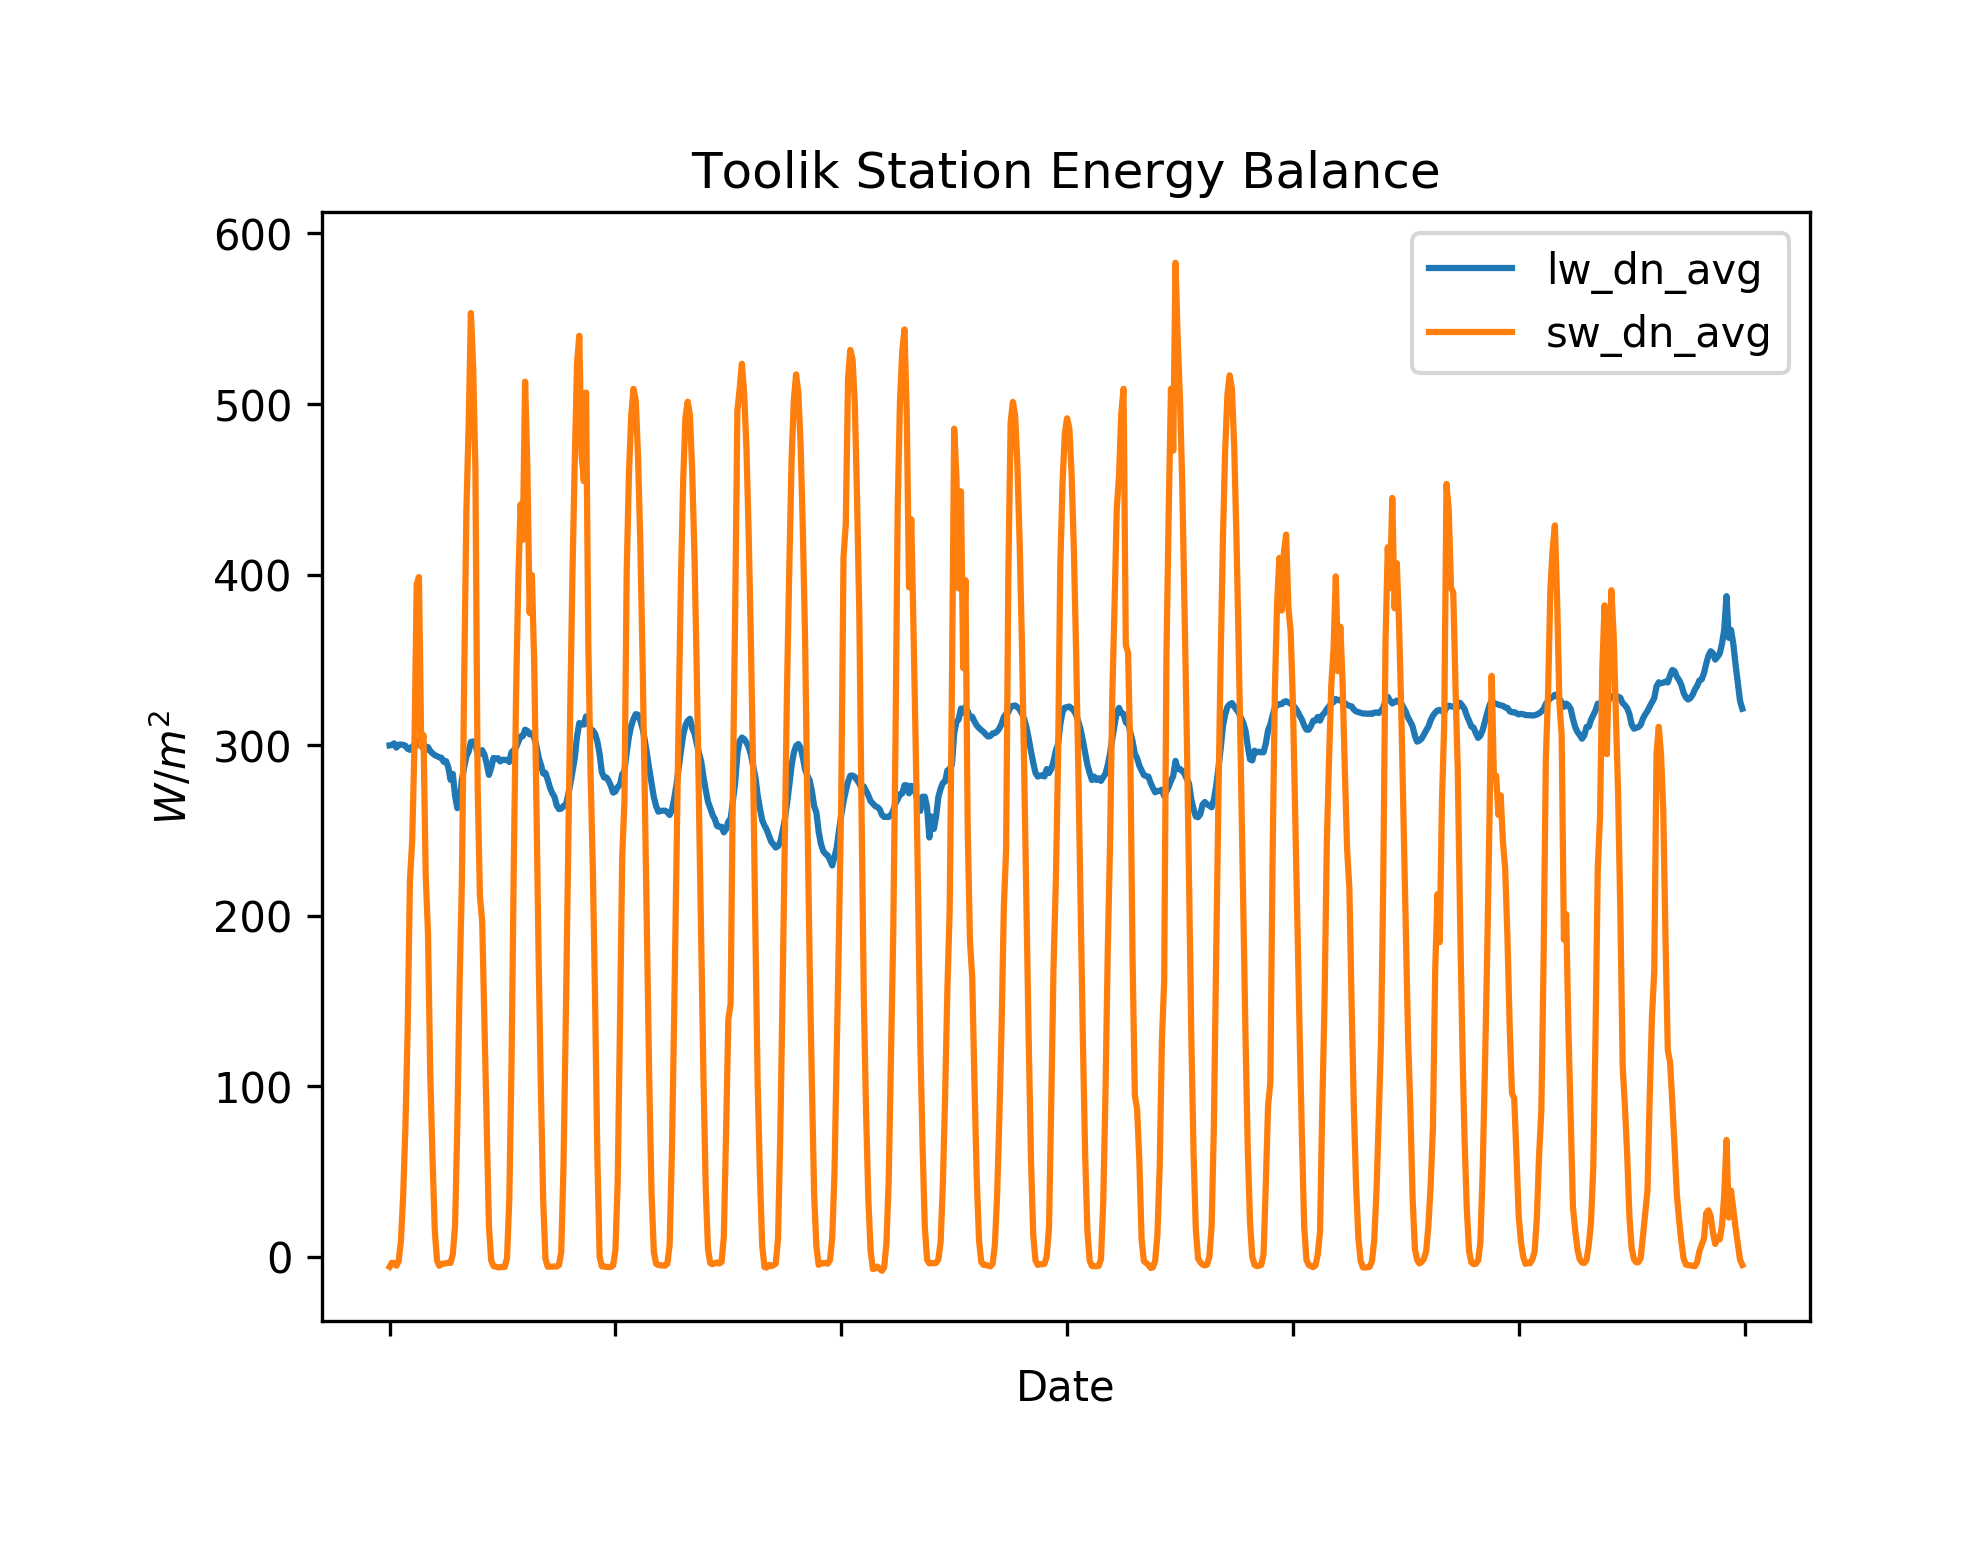
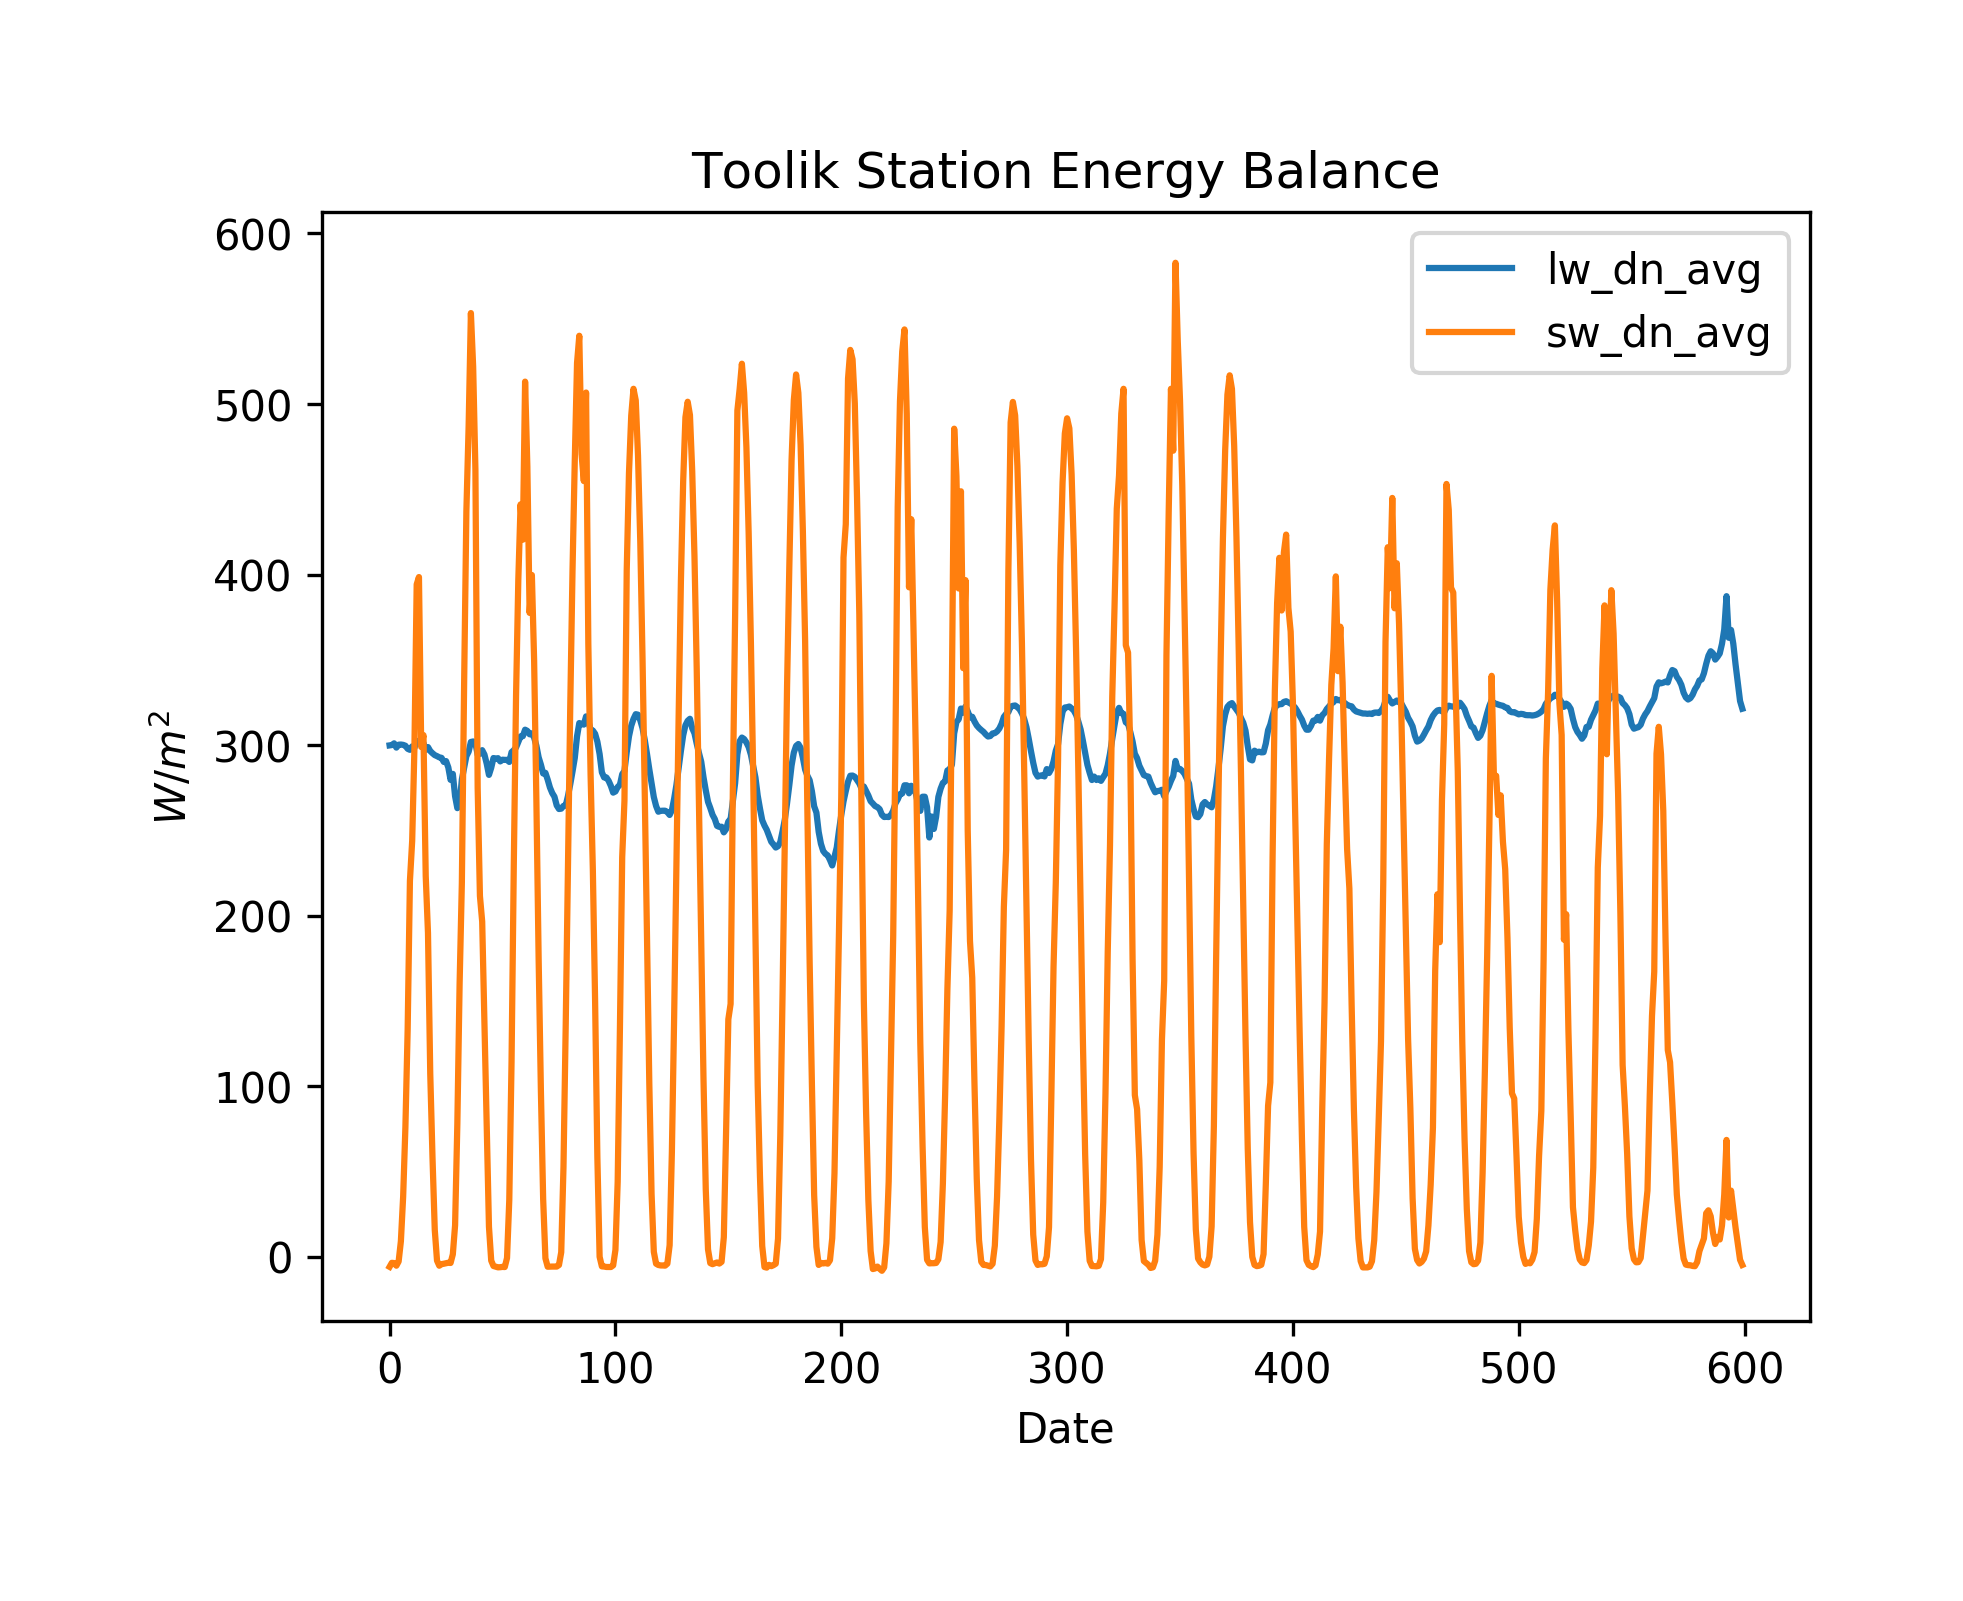
timestamps now on graphs. yay!

diff --git a/converttoolik.py b/converttoolik.py
@@ -19,26 +19,40 @@ inpath = ''
 
 ####################
 infilename = inpath+'1-hour_data.csv'
-df = pd.read_csv(infilename,skiprows=1, sep = ',', header = None,
+df = pd.read_csv(infilename,skiprows=1, sep = ',', header = None, parse_dates = [['date','hour']],
                  names = ["date", "hour", "air_temp_3m", "lw_dn_avg", "lw_up_avg", "sw_dn_avg", "sw_up_avg"])
 # Add the decimal hour data to the base datetime
 # Need to get this from the namelist or wrfout files eventually.
 
-df['hour'] = pd.to_datetime(dt.datetime(2015,04,21)+pd.to_timedelta(df['hour'], unit='h'))
+#Attempts to convert 'date_time' into yy:mm:dd hh:mm:ss
+#df['date'] = pd.to_datetime(dt.datetime(2015,04,21)+pd.to_timedelta(df['date_hour'], unit='h'))
+#df = pd.to_datetime(df['date'] + df['hour'])
+#df = df.apply(lambda r : pd.datetime.combine(r['date'], r['hour']))
+#df=df.resample('1h').mean()
 
-df = df.set_index(['date'])
+#Attempts to return as a 60m timestamp
+df = df.set_index(['date_hour'])
 startTime=pd.to_datetime(df.index[0])   # returns a TimeStamp
 endTime=pd.to_datetime(df.index[-1])
+#Convert to a 60 minute frequency
+#df['date_hour'] = df.asfreq('1h', method = 'pad')
 
-ax1=df[['lw_dn_avg','sw_dn_avg']].plot() #plots surface sensible heat, latent heat, ground flux
+ax1=df[['lw_dn_avg','sw_dn_avg']].plot() #plots shortwave and latent heat,
 ax1.set_xlabel("Date")
 ax1.set_ylabel("$W/m^2$")
 ax1.set_title('Toolik Station Energy Balance')
 plt.savefig('Toolik_obs1_21_Apr_15.png', dpi=300, bbox_inches='tight', pad_inches=0.5)
 
-ax2=df[['air_temp_3m']].plot() #plots surface sensible heat, latent heat, ground flux
+ax2=df[['air_temp_3m']].plot() #plots temperature at 3_m (2_m is not available)
 ax2.set_xlabel("Date")
 ax2.set_ylabel("$^oC$")
 ax2.set_title('Toolik Station temperature')
 plt.savefig('Toolik_obs2_21_Apr_15.png', dpi=300, bbox_inches='tight', pad_inches=0.5)
+
+ax3=df[['lw_up_avg','sw_up_avg']].plot() #plots shortwave and latent heat,
+ax3.set_xlabel("Date")
+ax3.set_ylabel("$W/m^2$")
+ax3.set_title('Toolik Station Energy Balance')
+plt.savefig('Toolik_obs3_21_Apr_15.png', dpi=300, bbox_inches='tight', pad_inches=0.5)
+
 print df
